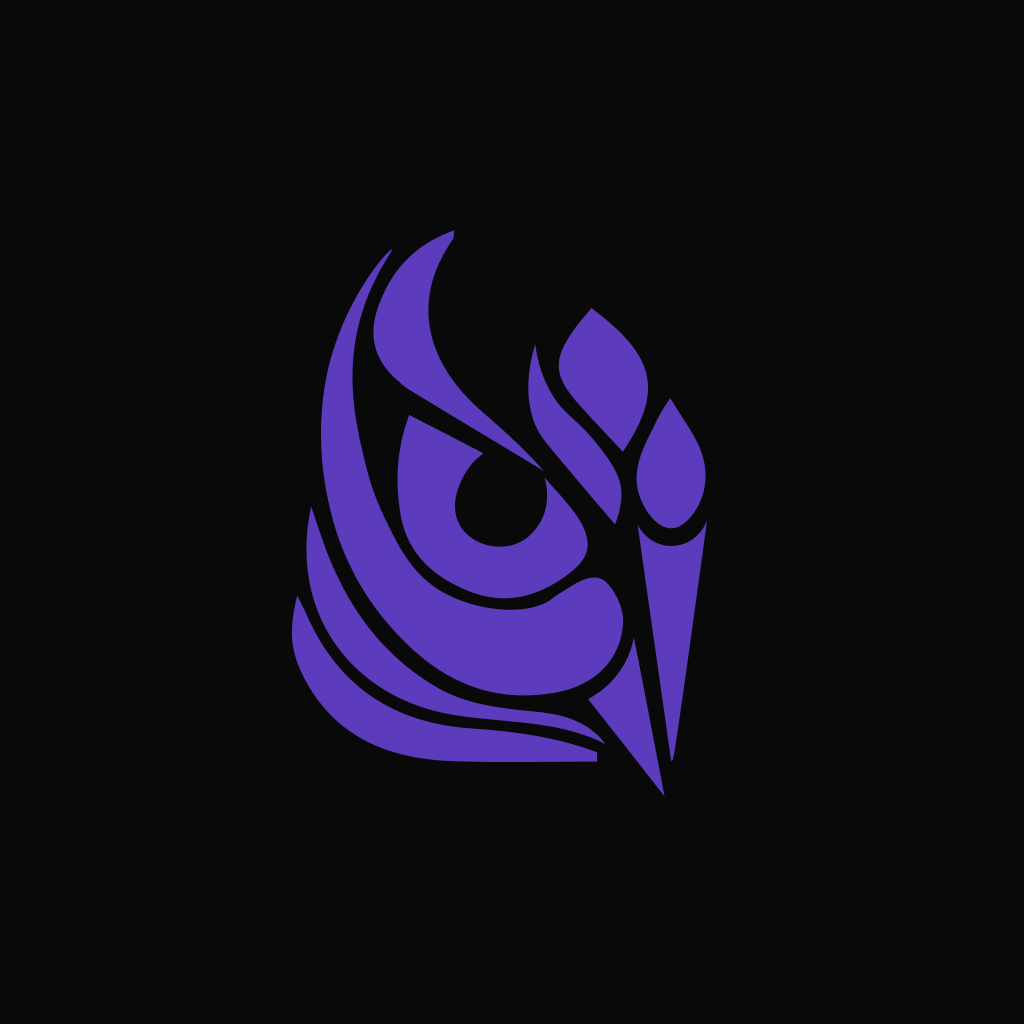
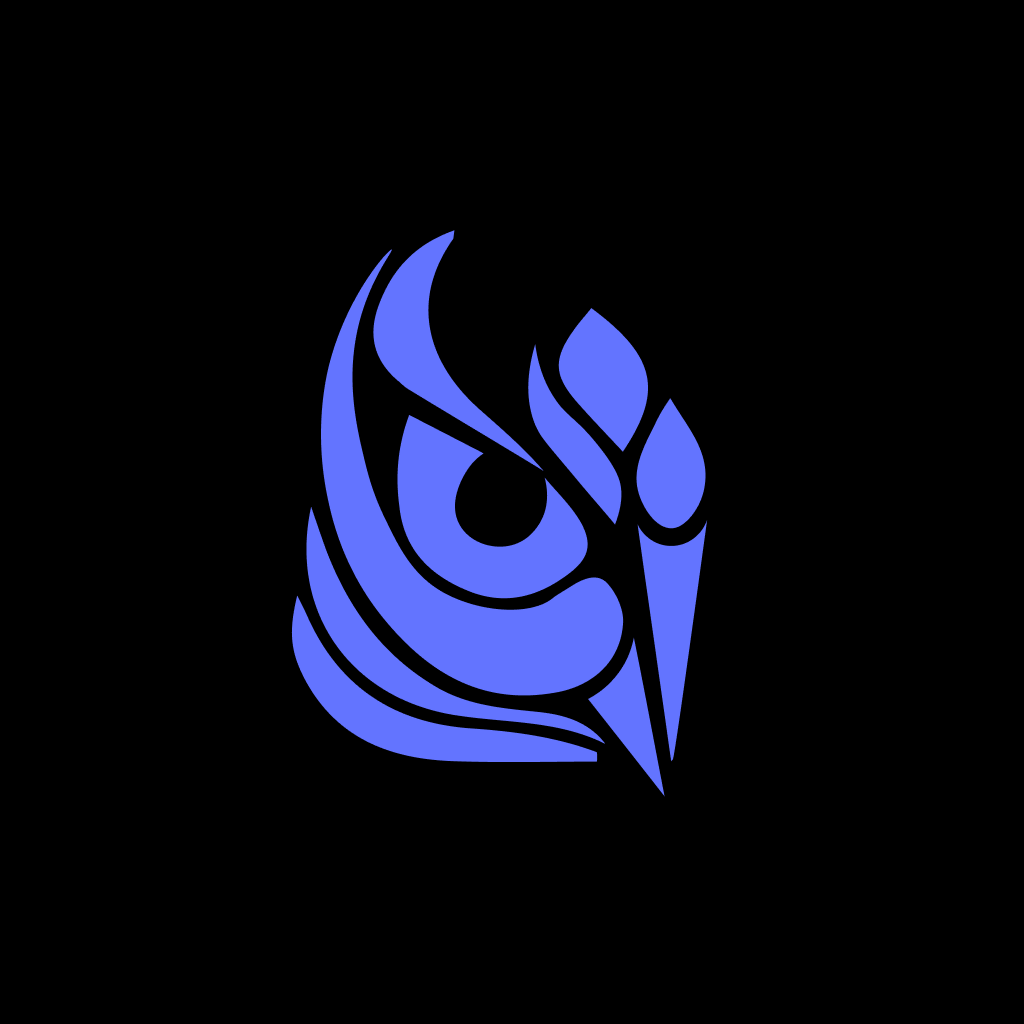
add full screen mode on start count down

Changed region(s): [[0.2812, 0.2188, 0.6875, 0.7812]]

diff --git a/src/components/navigator/Navigator.tsx b/src/components/navigator/Navigator.tsx
@@ -13,14 +13,15 @@ import Home from "../../screens/home";
 import Task from "../../screens/task";
 
 import { colors } from "../../styles/global";
+import { CountDownContext } from "../../contexts/CountDownContext";
 
 export default function Navigator() {
+  const { active } = React.useContext(CountDownContext);
   const Tab = createBottomTabNavigator();
 
   function Tabs() {
     return (
       <Tab.Navigator
-        initialRouteName="Home"
         tabBarOptions={{
           activeTintColor: colors.boldBlue,
           inactiveTintColor: colors.boldGrey,
@@ -65,7 +66,7 @@ export default function Navigator() {
           backgroundColor: colors.grey,
         }}
       >
-        <Tabs />
+        {active ? <Home /> : <Tabs />}
       </View>
     </NavigationContainer>
   );

diff --git a/src/styles/global.tsx b/src/styles/global.tsx
@@ -2,13 +2,13 @@ import { StyleSheet } from "react-native";
 
 export const colors = {
   white: "#f2f3f5",
-  black: "#090a0a",
+  black: "#000000",
 
-  grey: "#121212",
+  grey: "#090a0a",
   boldGrey: "#373737",
 
-  lightBlue: "#5864dd",
-  boldBlue: "#5c3cbd",
+  lightBlue: "#6374ff",
+  boldBlue: "#4953B8",
   darkBlue: "#110b24",
 };
 

diff --git a/src/components/progresBar/CircularProgressBar.tsx b/src/components/progresBar/CircularProgressBar.tsx
@@ -19,7 +19,7 @@ const CircularProgressBar = () => {
       rotation={360}
       size={size}
       width={15}
-      fill={100 - percent}
+      fill={50}
       tintColor={colors.boldBlue}
       backgroundColor={colors.darkBlue}
       lineCap="round"
